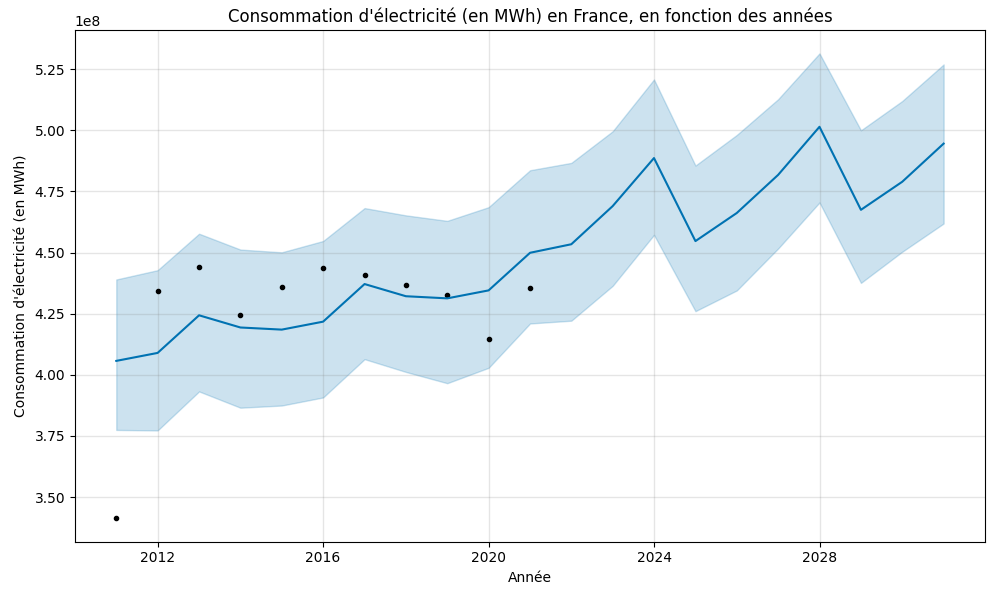
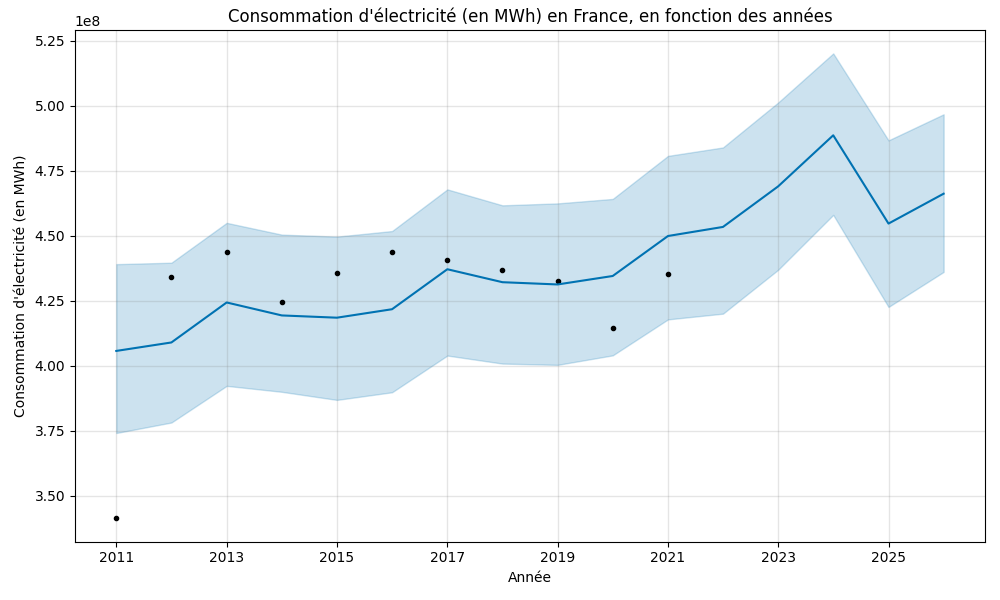
utilisation de 5 ans pour prophet

diff --git a/prevision-consommation/filieres/prevision.py b/prevision-consommation/filieres/prevision.py
@@ -11,7 +11,7 @@ df = pandas.read_csv(
 
 # préparation des données
 
-# on prend en compte que l'électricité
+# on ne prend en compte que l'électricité
 df = df[df["filiere"] == "Electricité"]
 df = df.groupby("annee").sum(numeric_only=True).reset_index()
 
@@ -113,7 +113,7 @@ def afficheGraphePrediction(df, forecast, title):
 def predire_et_graphes(data, title, filename, title2, filename2):
     m = Prophet()
     m.fit(data)
-    future = m.make_future_dataframe(periods=10, freq="Y")
+    future = m.make_future_dataframe(periods=5, freq="Y")
     forecast = m.predict(future)
     fig = m.plot(forecast)
     plt.xlabel("Année")
